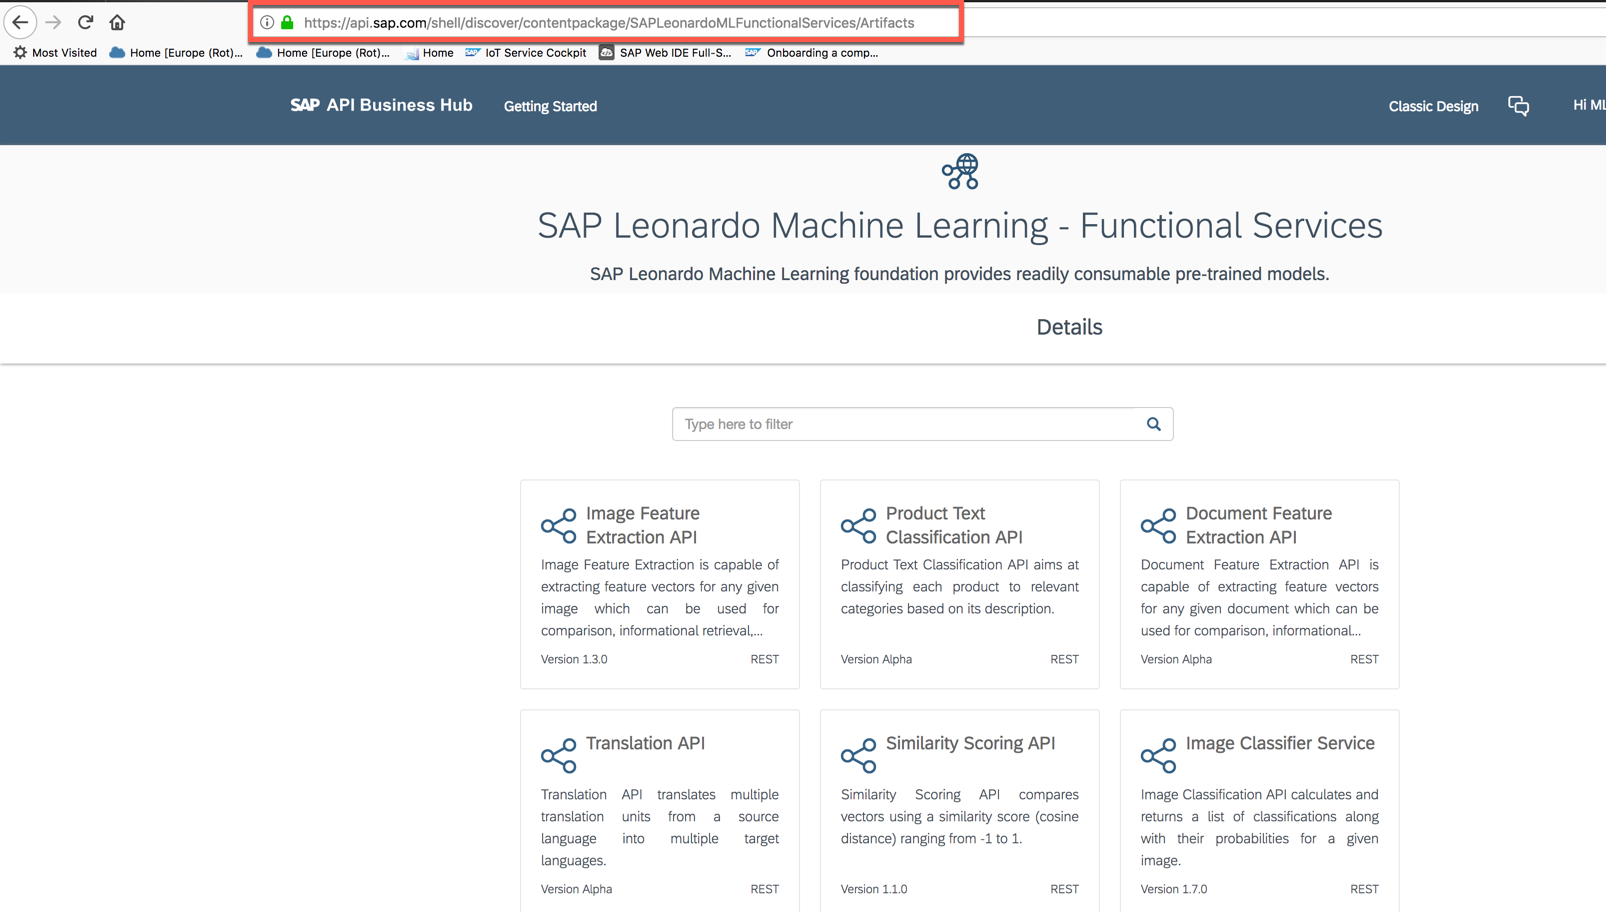
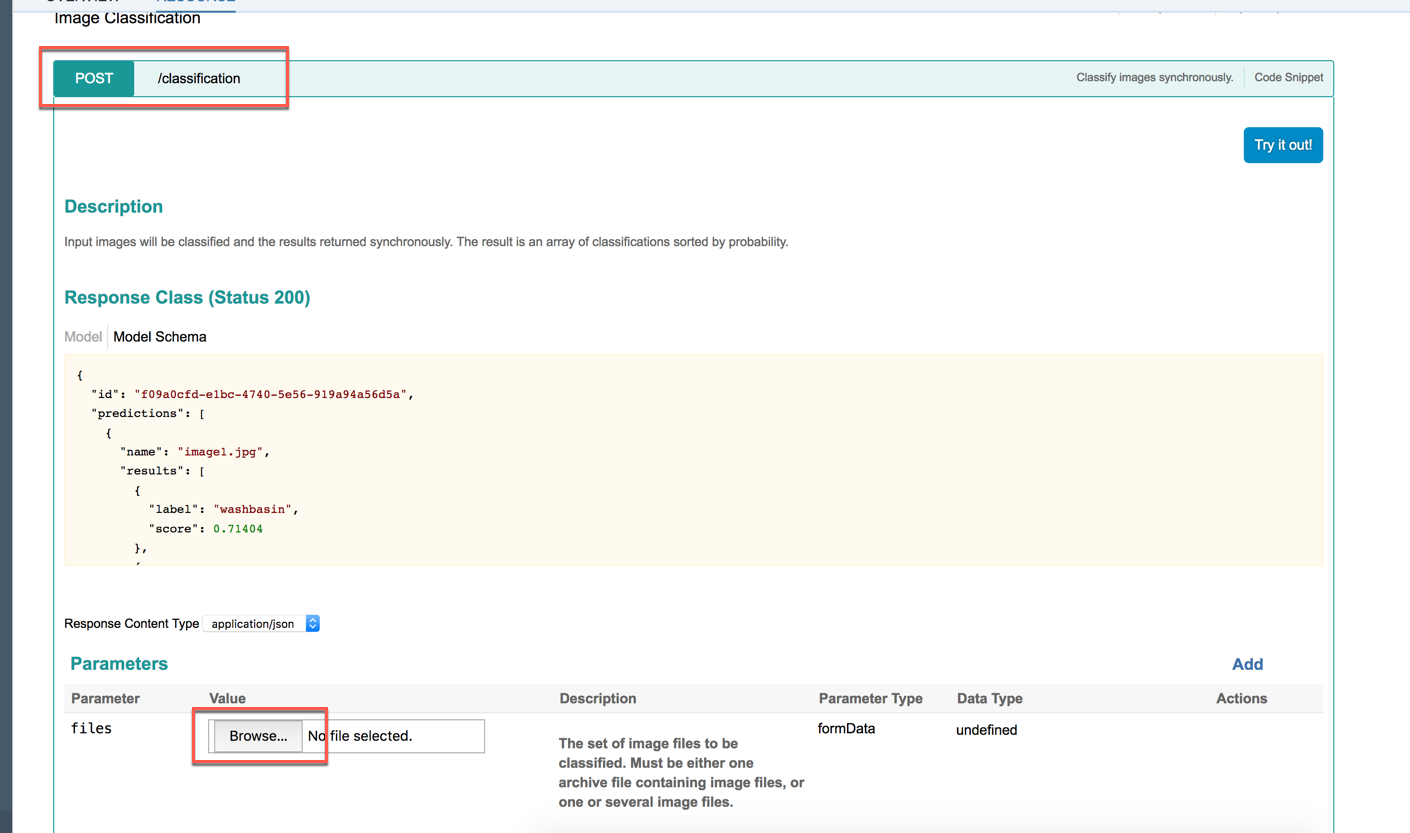
Exercise 3.1 completed

diff --git a/Day3/Exercise_31/Exercise_31.md b/Day3/Exercise_31/Exercise_31.md
@@ -1,4 +1,5 @@
 <table width=100% border=>
+<tr><td colspan=2><img src="images/spacer.png"></td></tr>
 <tr><td colspan=2><h1>EXERCISE 3_1 - ML APIs Exploration</h1></td></tr>
 <tr><td><h3>SAP Partner Workshop</h3></td><td><h1><img src="images/clock.png"> &nbsp;20 min</h1></td></tr>
 </table>
@@ -25,9 +26,7 @@ In this exercise you can experience how easy it is to use the available SAP Leon
 Here below are prerequisites for this exercise.
 
 * A trial account on the SAP Cloud Platform. You can get one by registering here <https://account.hanatrial.ondemand.com>
-* Download the files [Topic_Detection.zip](files/Topic_Detection.zip?raw=true) and [test_images.zip](files/test_images.zip?raw=true) and save them in a proper location: they will be used later in this document.
-
->NOTE: only *test\_images.zip* file must be extracted in your folder
+* Download the files [DFE_articles.zip](files/DFE_articles.zip?raw=true) and [test_images.zip](files/test_images.zip?raw=true) and save them in a proper location: they will be used later in this document.
 
 
 ## Steps
@@ -38,76 +37,70 @@ Here below are prerequisites for this exercise.
  
 
 ### <a name="topic-detection"></a> Use SAP Leonardo ML Topic Detection on API Business Hub
-1. Open SAP Business Hub in your browser <https://api.sap.com>  
+1. Open SAP Business Hub in your browser <https://api.sap.com> and switch to **Classic Design**  
 	![](images/01.png)
 
 	>NOTE: Please use Firefox to avoid the SSO login [for SAP Employees only].
 
-1. 	Click on **Try New Design** so that you can start trying the new design has been rolled out for the API Hub  
+1. 	Click on **APIs**  
 	![](images/02.png)
 
-1. 	Enter the text "Leonardo" in the search box, hit ENTER and choose **SAP Leonardo Machine Learning - Functional Services**  
+1. 	Choose **SAP Leonardo Machine Learning - Functional Services**  
 	![](images/03.png)
 
-1. 	Enter the text "Topic" in the search box, hit ENTER and choose **Topic Detection API**  
+1. 	Choose **Inference Service for Topic Detection**  
 	![](images/04.png)
 
-1. We need to login to test the service: click on the **Log On** button at the top right corner  
+1. We need to login to test the service: click on the **Login** button at the top right corner  
 	![](images/05.png)
 
-1. Enter the credentials provided by your instructor and click **Continue**  
+1. Enter the credentials provided by your instructor and click **Log On**  
 	![](images/06.png)
 
-1. Expand the **POST** request **/inference_sync**  
+1. Expand the **POST** request **/topic-detection**  
 	![](images/07.png)
 
-1. Scroll down to the **PARAMETERS** and under **options**, paste the following parameters  
+1. Under **files** press the **Browse** button  
+	![](images/08.png)
+
+1. Choose the *DFE_articles.zip* file (you have already downloaded it in the prerequisites section) containing some text files  
+	![](images/09.png)
+
+1. Scroll down and under **options**, paste the following parameters and click on the **Try it out!** button  
 	
 	```json
 	{"numTopics":3, "numTopicsPerDoc":2, "numKeywordsPerTopic":15}
 	```	
-	![](images/08.png)
-
-1. Under **files** press the **Browse** button  
-	![](images/09.png)
-
-1. Choose the *Topic_Detection.zip* file (you have already downloaded it in the prerequisites section) containing text files about computer science and pies  
 	![](images/10.png)
 
-1. The name of the selected file appears aside the **Browse** button. Click on  **Try out** button  
+1. You should receive a **Response Code** of **200**. Check the result in the **Response Body**: you should see a content like this  
 	![](images/11.png)
 
-1. You should receive a **Response Code** of **200**. Check the result in the **Response Body**: you should see a content like this  
+1. Try again by changing the values for **numTopics** to **2** and **numTopicsPerDocs** to **1**  
 	![](images/12.png)
 
-1. Try again by changing the values for **numTopics** to **2** and **numTopicsPerDocs** to **1**  
-	![](images/13.png)
-
 1. What has changed? You should receive an answer similar to this  
-	![](images/14.png)
+	![](images/13.png)
 
 1. You have completed the exercise! You have successfully used the Topic Detection API service to find **numKeywordsPerTopic** keywords and **numTopics** topics across all documents. The topics get a number, starting with 0. So, if you define 3 Topics, they will be numbered with 0, 1, 2. With **numTopicsPerDoc** you define how many of the topics of the entire document corpus can be found in one document. The algorithm chooses the number of topics which fits best and assigns them a score which is not normalized to 1.  
 
 
 ### <a name="image-classification"></a> Use SAP Leonardo ML Image Classification on API Business Hub
 
-1. Go back to <https://api.sap.com/shell/discover/contentpackage/SAPLeonardoMLFunctionalServices/Artifacts>
+1. Go back to the **SAP Leonardo Machine Learning Foundation - Functional Services** page  
+	![](images/14.png)
+
+1. 	Expand the **/classification** link and click on **Browse**  
 	![](images/15.png)
 
-1. 	Enter the text "image" in the search box, hit ENTER and choose **Image Classifier Service**  
+1. Choose the *test_images.zip* file (you have already downloaded it in the prerequisites section) and click on the **Try it out!** button  
 	![](images/16.png)
 
-1. Expand the **POST** request **/inference_sync**  
+1. Look at the response code: it should be 200, meaning that the request was successful. Then look at the response body: you should be able to read the predictions against the images contained in the zip file you uploaded. For example here you can see that the *iPhoneX.jpg* has been labeled as a "cellular telephone" with a score of 0.47  
 	![](images/17.png)
 
-1. Click on the **Browse...** button for the **files** parameter  
+1. Looking down at another image, like the *tennis_ball.jpg* you can see that the it has been correctly labeled as a "tennis ball" with a score of 0.99  
 	![](images/18.png)
-
-1. Select one of the images you have in the folder where you have extracted the test_images.zip file given in the prerequisites. For example choose the *tennis\_ball.jpg* file. then click on the **Try out** button  
-	![](images/19.png)
-
-1. Look at the response code: it should be 200, meaning that the request was successful. Then look at the response body: you should be able to read the predictions against the image you uploaded with their scores  
-	![](images/20.png)
 
 1. Congratulations! You have completed the exercise.
 
